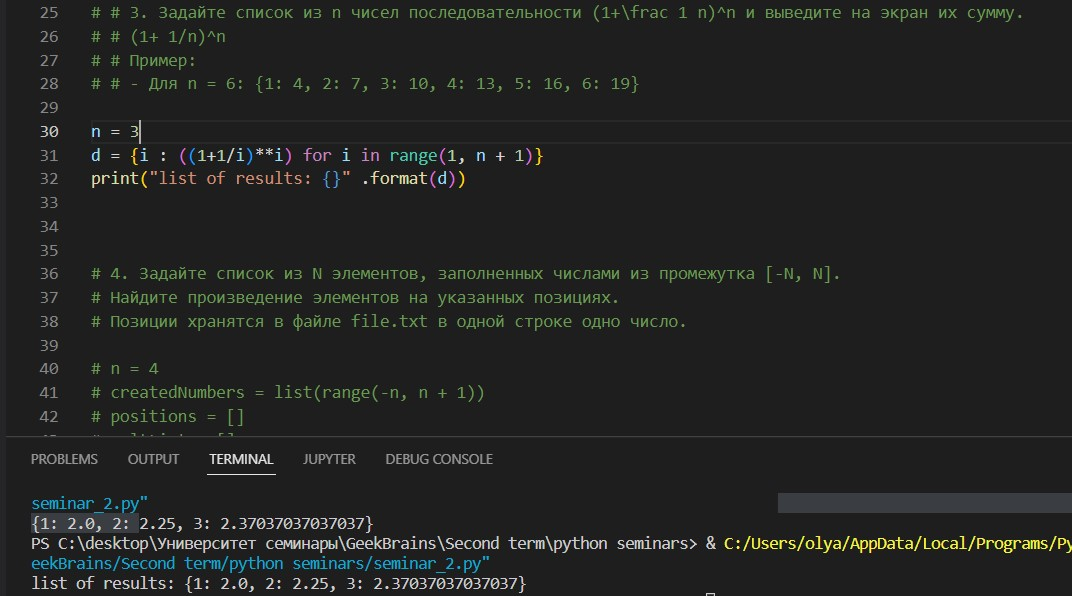
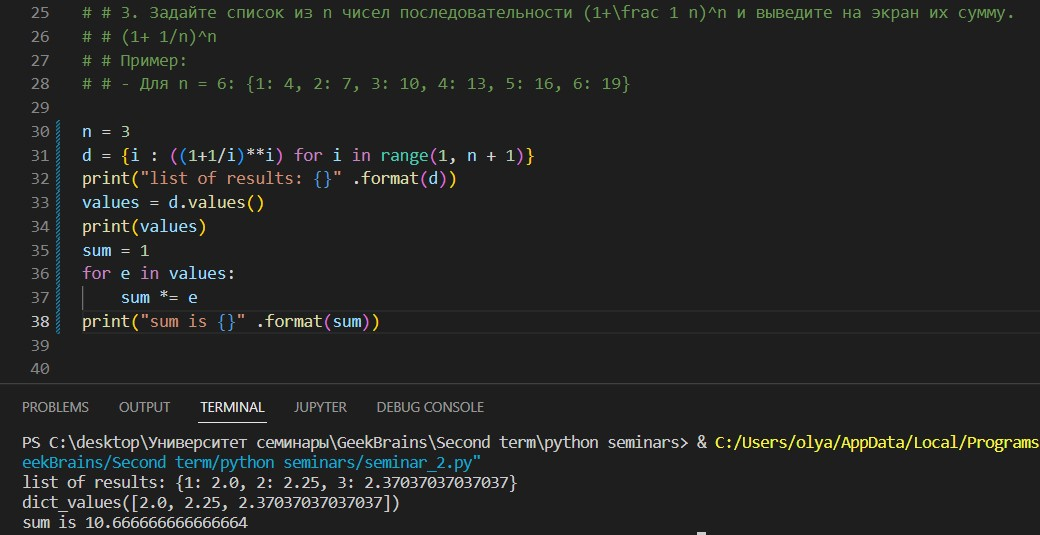
fix task3

diff --git a/seminar_2.py b/seminar_2.py
@@ -27,9 +27,15 @@
 # # Пример:
 # # - Для n = 6: {1: 4, 2: 7, 3: 10, 4: 13, 5: 16, 6: 19}
 
-# n = 3
-# d = {i : ((1+1/i)**i) for i in range(1, n + 1)}
-# print("list of results: {}" .format(d))
+n = 3
+d = {i : ((1+1/i)**i) for i in range(1, n + 1)}
+print("list of results: {}" .format(d))
+values = d.values()
+print(values)
+sum = 1
+for e in values:
+    sum *= e
+print("sum is {}" .format(sum))
 
 
 # 4. Задайте список из N элементов, заполненных числами из промежутка [-N, N]. 
